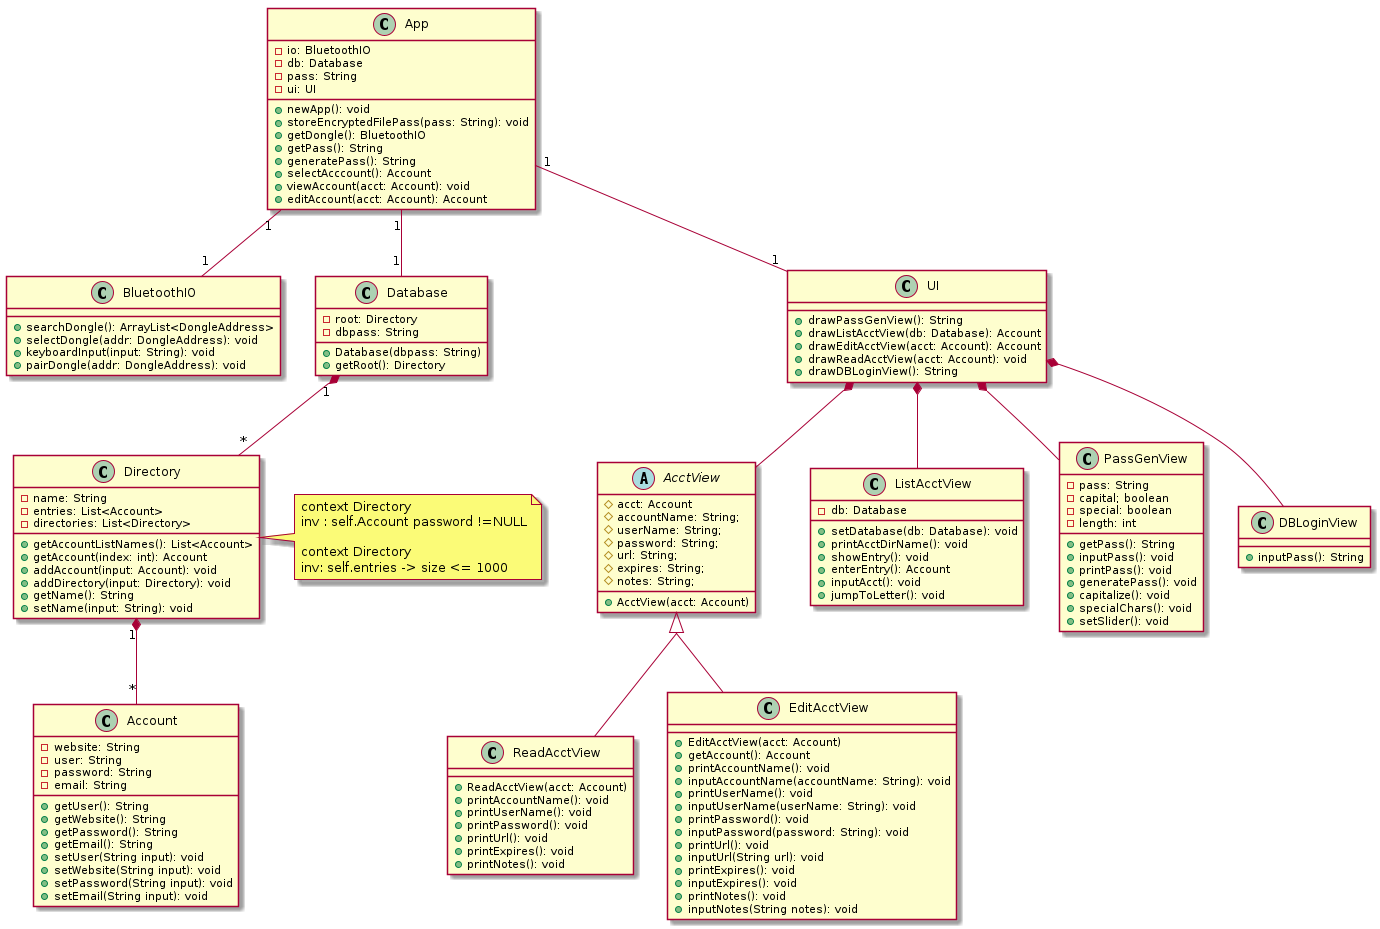
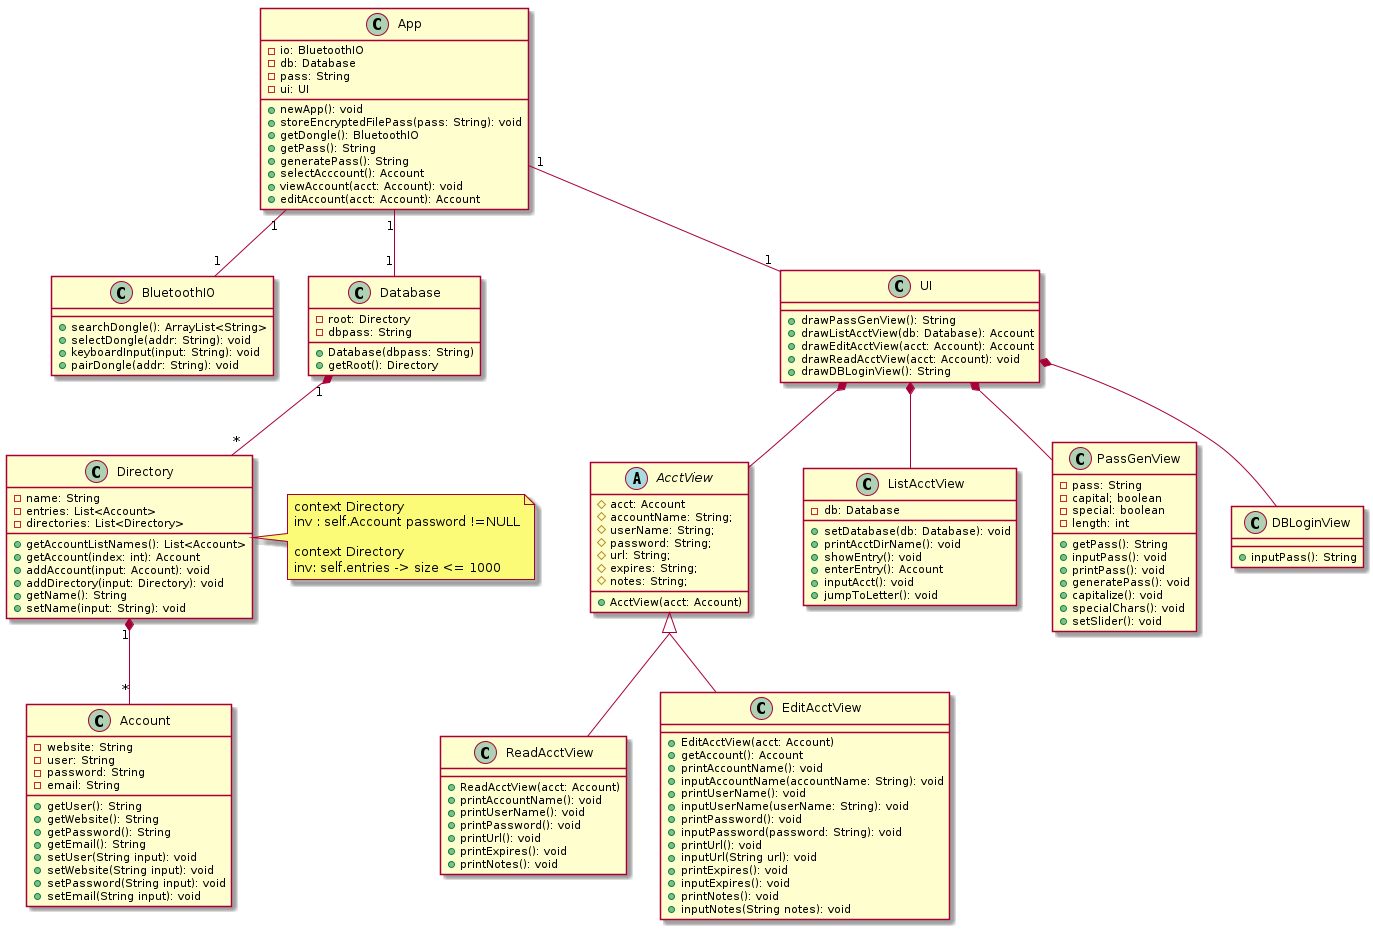
Removed DongleAddress dependency and adjusted class diagram accordingly

diff --git a/app/BluetoothIO.java b/app/BluetoothIO.java
@@ -2,15 +2,15 @@ import java.util.ArrayList;
 
 public class BluetoothIO
 {
-    public BluetoothIO(){
+   /**
+    * Returns a list of dongle MAC addresses
+    *
+    */
+    public ArrayList<String> searchDongle(){
 
     }
 
-    public ArrayList<DongleAddress> searchDongle(){
-
-    }
-
-    public void selectDongle(DongleAddress addr){
+    public void selectDongle(String addr){
 
     }
 
@@ -18,7 +18,7 @@ public class BluetoothIO
 
     }
 
-    private void pairDongle(DongleAddress addr){
+    private void pairDongle(String addr){
 
     }
 }
